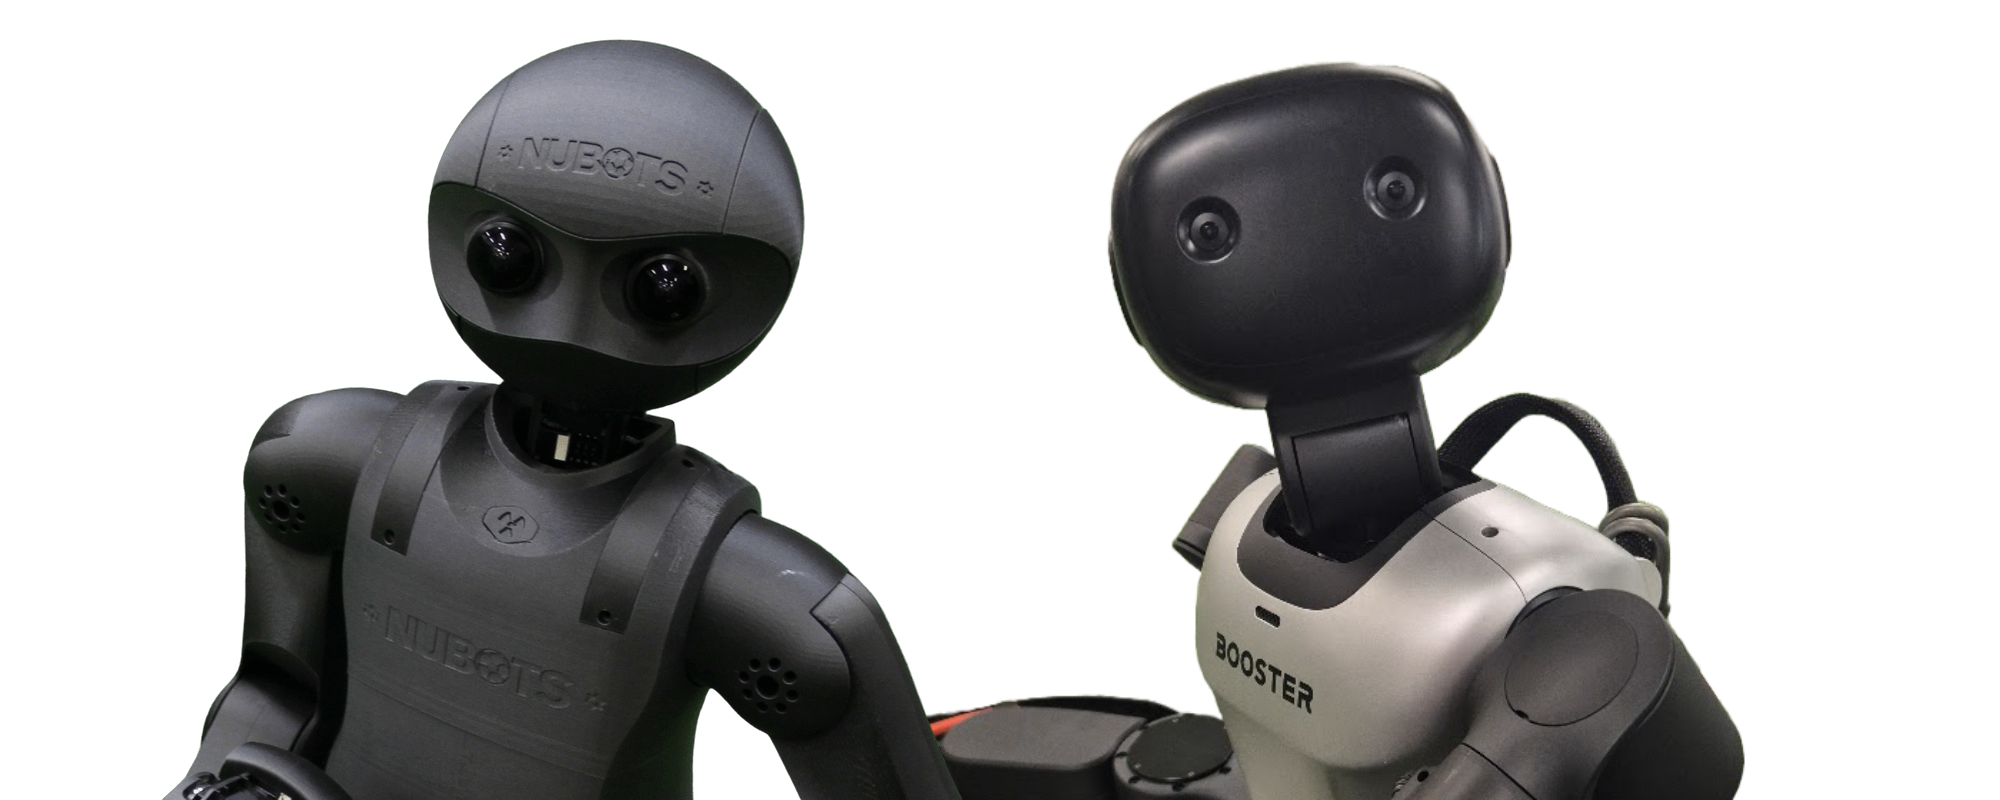
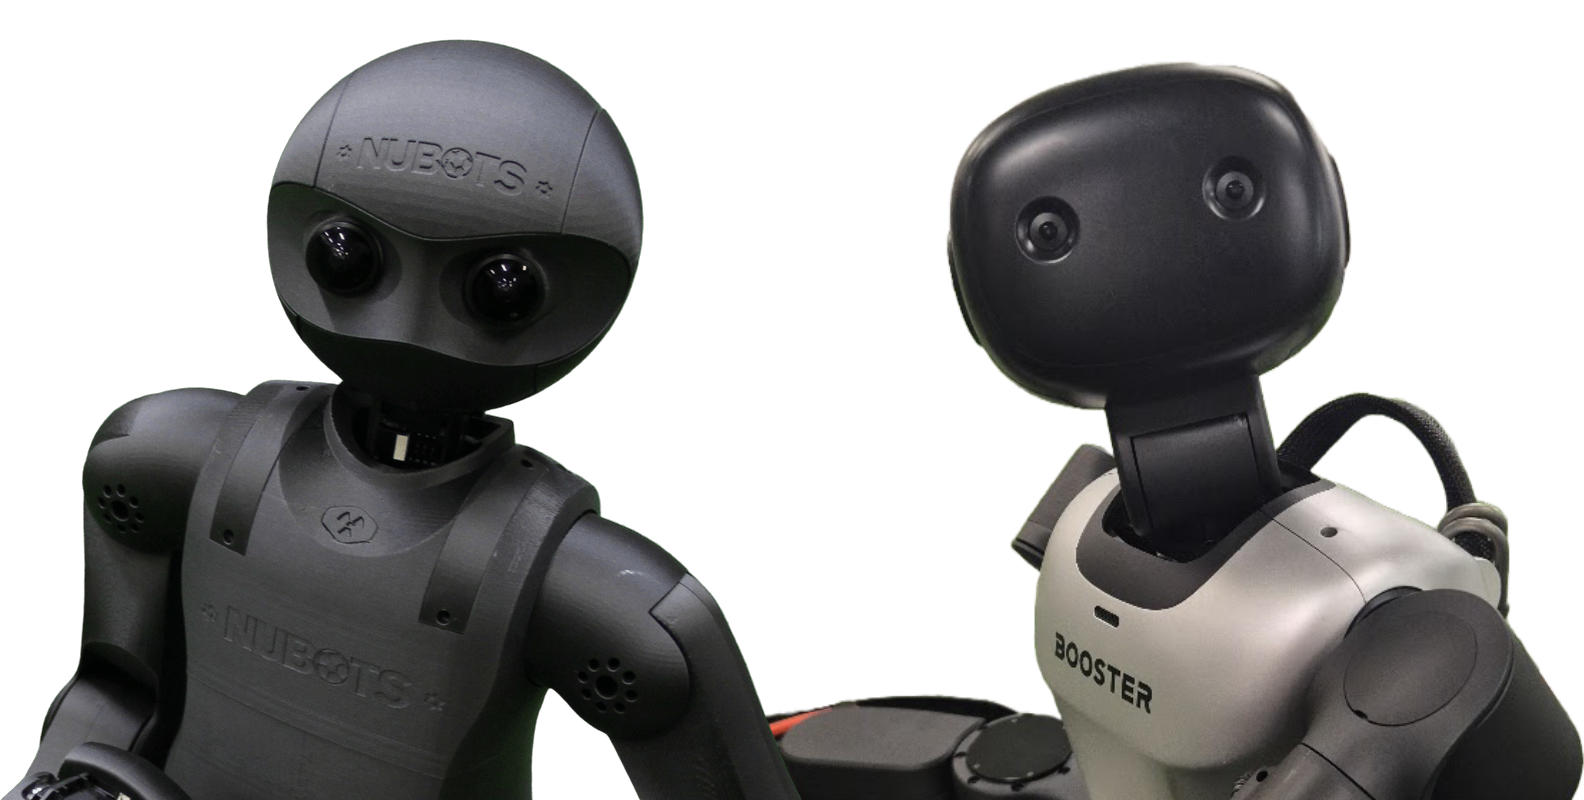
scale changes to the image

diff --git a/src/components/landing/cover/cover.module.css b/src/components/landing/cover/cover.module.css
@@ -1,6 +1,6 @@
 /* The main cover, with the field background */
 .cover {
-  @apply bg-cover bg-center relative;
+  @apply bg-cover bg-center relative overflow-hidden;
   background-image: url('./field.jpg');
   height: 340px;
 
@@ -70,11 +70,15 @@
     height: 360px;
   }
 
+  /* Fill the gap from the text to the right edge of the viewport (past the content column) */
   @screen md {
-    background-position: bottom right;
+    left: 50%;
+    right: min(0px, calc((1280px - 100vw) / 2));
+    width: auto;
   }
 
   @screen xl {
     height: 380px;
+    left: 880px;
   }
 }
